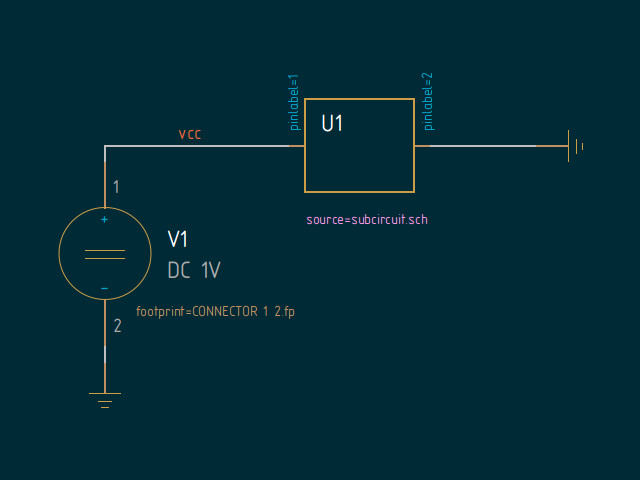
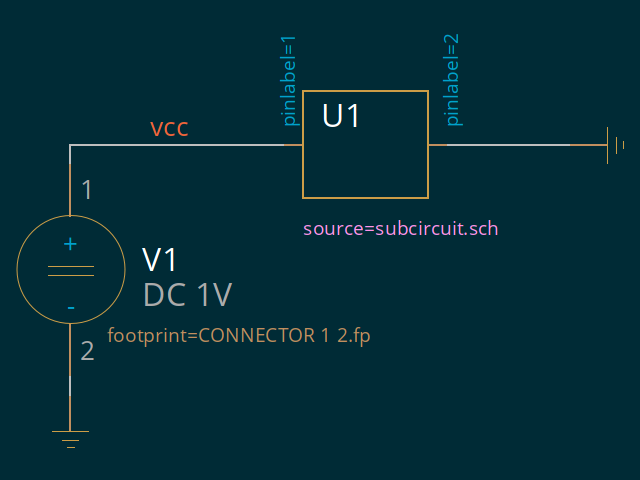
sch/hier:  align attrs to grid 100; sans font png

diff --git a/sch/hier/main.sch.html b/sch/hier/main.sch.html
@@ -3,7 +3,7 @@
 <head>
 <meta charset="UTF-8">
 <title>sch/hier/main.sch - Lepton EDA - graahnul-grom.github.io</title>
-<meta name="Generator" content="Vim/8.1">
+<meta name="Generator" content="Vim/8.2">
 <meta name="plugin-version" content="vim8.1_v2">
 <meta name="syntax" content="c">
 <meta name="settings" content="number_lines,use_css,no_foldcolumn,expand_tabs,line_ids,prevent_copy=,use_input_for_pc=fallback">
@@ -19,20 +19,48 @@ body { font-family: monospace; color: #839496; background-color: #002b36; }
 -->
 </style>
 
+<script>
+<!--
+
+/* function to open any folds containing a jumped-to line before jumping to it */
+function JumpToLine()
+{
+  var lineNum;
+  lineNum = window.location.hash;
+  lineNum = lineNum.substr(1); /* strip off '#' */
+
+  if (lineNum.indexOf('L') == -1) {
+    lineNum = 'L'+lineNum;
+  }
+  var lineElem = document.getElementById(lineNum);
+  /* Always jump to new location even if the line was hidden inside a fold, or
+   * we corrected the raw number to a line ID.
+   */
+  if (lineElem) {
+    lineElem.scrollIntoView(true);
+  }
+  return true;
+}
+if ('onhashchange' in window) {
+  window.onhashchange = JumpToLine;
+}
+
+-->
+</script>
 </head>
-<body>
+<body onload='JumpToLine();'>
 <pre id='vimCodeElement'>
-<span id="L1" class="LineNr"> 1 </span>v <span class="Number">20191003</span> <span class="Number">2</span>
+<span id="L1" class="LineNr"> 1 </span>v <span class="Number">20201211</span> <span class="Number">2</span>
 <span id="L2" class="LineNr"> 2 </span>C <span class="Number">36900</span> <span class="Number">12100</span> <span class="Number">1</span> <span class="Number">0</span> <span class="Number">0</span> sym-gnd.sym
 <span id="L3" class="LineNr"> 3 </span>C <span class="Number">36700</span> <span class="Number">12500</span> <span class="Number">1</span> <span class="Number">0</span> <span class="Number">0</span> sym-vdc.sym
 <span id="L4" class="LineNr"> 4 </span>{
-<span id="L5" class="LineNr"> 5 </span>T <span class="Number">37400</span> <span class="Number">13150</span> <span class="Number">21</span> <span class="Number">10</span> <span class="Number">1</span> <span class="Number">1</span> <span class="Number">0</span> <span class="Number">0</span> <span class="Number">1</span>
+<span id="L5" class="LineNr"> 5 </span>T <span class="Number">37400</span> <span class="Number">13100</span> <span class="Number">21</span> <span class="Number">10</span> <span class="Number">1</span> <span class="Number">1</span> <span class="Number">0</span> <span class="Number">0</span> <span class="Number">1</span>
 <span id="L6" class="LineNr"> 6 </span>refdes=V1
 <span id="L7" class="LineNr"> 7 </span>T <span class="Number">37400</span> <span class="Number">13350</span> <span class="Number">5</span> <span class="Number">10</span> <span class="Number">0</span> <span class="Number">0</span> <span class="Number">0</span> <span class="Number">0</span> <span class="Number">1</span>
 <span id="L8" class="LineNr"> 8 </span>device=VOLTAGE_SOURCE
 <span id="L9" class="LineNr"> 9 </span>T <span class="Number">37400</span> <span class="Number">13550</span> <span class="Number">1</span> <span class="Number">10</span> <span class="Number">0</span> <span class="Number">0</span> <span class="Number">0</span> <span class="Number">0</span> <span class="Number">1</span>
 <span id="L10" class="LineNr">10 </span>footprint=none
-<span id="L11" class="LineNr">11 </span>T <span class="Number">37400</span> <span class="Number">12950</span> <span class="Number">5</span> <span class="Number">10</span> <span class="Number">1</span> <span class="Number">1</span> <span class="Number">0</span> <span class="Number">0</span> <span class="Number">1</span>
+<span id="L11" class="LineNr">11 </span>T <span class="Number">37400</span> <span class="Number">12900</span> <span class="Number">5</span> <span class="Number">10</span> <span class="Number">1</span> <span class="Number">1</span> <span class="Number">0</span> <span class="Number">0</span> <span class="Number">1</span>
 <span id="L12" class="LineNr">12 </span>value=DC 1V
 <span id="L13" class="LineNr">13 </span>T <span class="Number">37200</span> <span class="Number">12700</span> <span class="Number">1</span> <span class="Number">6</span> <span class="Number">1</span> <span class="Number">0</span> <span class="Number">0</span> <span class="Number">0</span> <span class="Number">1</span>
 <span id="L14" class="LineNr">14 </span>footprint=CONNECTOR <span class="Number">1</span> <span class="Float">2.f</span>p

diff --git a/sch/hier/subcircuit.sch.html b/sch/hier/subcircuit.sch.html
@@ -3,7 +3,7 @@
 <head>
 <meta charset="UTF-8">
 <title>sch/hier/subcircuit.sch - Lepton EDA - graahnul-grom.github.io</title>
-<meta name="Generator" content="Vim/8.1">
+<meta name="Generator" content="Vim/8.2">
 <meta name="plugin-version" content="vim8.1_v2">
 <meta name="syntax" content="c">
 <meta name="settings" content="number_lines,use_css,no_foldcolumn,expand_tabs,line_ids,prevent_copy=,use_input_for_pc=fallback">
@@ -18,10 +18,38 @@ body { font-family: monospace; color: #839496; background-color: #002b36; }
 -->
 </style>
 
+<script>
+<!--
+
+/* function to open any folds containing a jumped-to line before jumping to it */
+function JumpToLine()
+{
+  var lineNum;
+  lineNum = window.location.hash;
+  lineNum = lineNum.substr(1); /* strip off '#' */
+
+  if (lineNum.indexOf('L') == -1) {
+    lineNum = 'L'+lineNum;
+  }
+  var lineElem = document.getElementById(lineNum);
+  /* Always jump to new location even if the line was hidden inside a fold, or
+   * we corrected the raw number to a line ID.
+   */
+  if (lineElem) {
+    lineElem.scrollIntoView(true);
+  }
+  return true;
+}
+if ('onhashchange' in window) {
+  window.onhashchange = JumpToLine;
+}
+
+-->
+</script>
 </head>
-<body>
+<body onload='JumpToLine();'>
 <pre id='vimCodeElement'>
-<span id="L1" class="LineNr"> 1 </span>v <span class="Number">20191003</span> <span class="Number">2</span>
+<span id="L1" class="LineNr"> 1 </span>v <span class="Number">20201211</span> <span class="Number">2</span>
 <span id="L2" class="LineNr"> 2 </span>C <span class="Number">18200</span> <span class="Number">24200</span> <span class="Number">1</span> <span class="Number">0</span> <span class="Number">0</span> sym-resistor.sym
 <span id="L3" class="LineNr"> 3 </span>{
 <span id="L4" class="LineNr"> 4 </span>T <span class="Number">18500</span> <span class="Number">24600</span> <span class="Number">5</span> <span class="Number">10</span> <span class="Number">0</span> <span class="Number">0</span> <span class="Number">0</span> <span class="Number">0</span> <span class="Number">1</span>
@@ -39,7 +67,7 @@ body { font-family: monospace; color: #839496; background-color: #002b36; }
 <span id="L16" class="LineNr">16 </span>refdes=<span class="Number">1</span>
 <span id="L17" class="LineNr">17 </span>T <span class="Number">16800</span> <span class="Number">24700</span> <span class="Number">5</span> <span class="Number">6</span> <span class="Number">1</span> <span class="Number">0</span> <span class="Number">0</span> <span class="Number">0</span> <span class="Number">1</span>
 <span id="L18" class="LineNr">18 </span>device=DOES_NOT_MATTER
-<span id="L19" class="LineNr">19 </span>T <span class="Number">16900</span> <span class="Number">23800</span> <span class="Number">5</span> <span class="Number">5</span> <span class="Number">1</span> <span class="Number">1</span> <span class="Number">0</span> <span class="Number">0</span> <span class="Number">5</span>
+<span id="L19" class="LineNr">19 </span>T <span class="Number">16900</span> <span class="Number">23400</span> <span class="Number">5</span> <span class="Number">6</span> <span class="Number">1</span> <span class="Number">1</span> <span class="Number">0</span> <span class="Number">0</span> <span class="Number">5</span>
 <span id="L20" class="LineNr">20 </span>comment=refdes is set
 <span id="L21" class="LineNr">21 </span>to pinlabel of
 <span id="L22" class="LineNr">22 </span>subcircuit symbol
